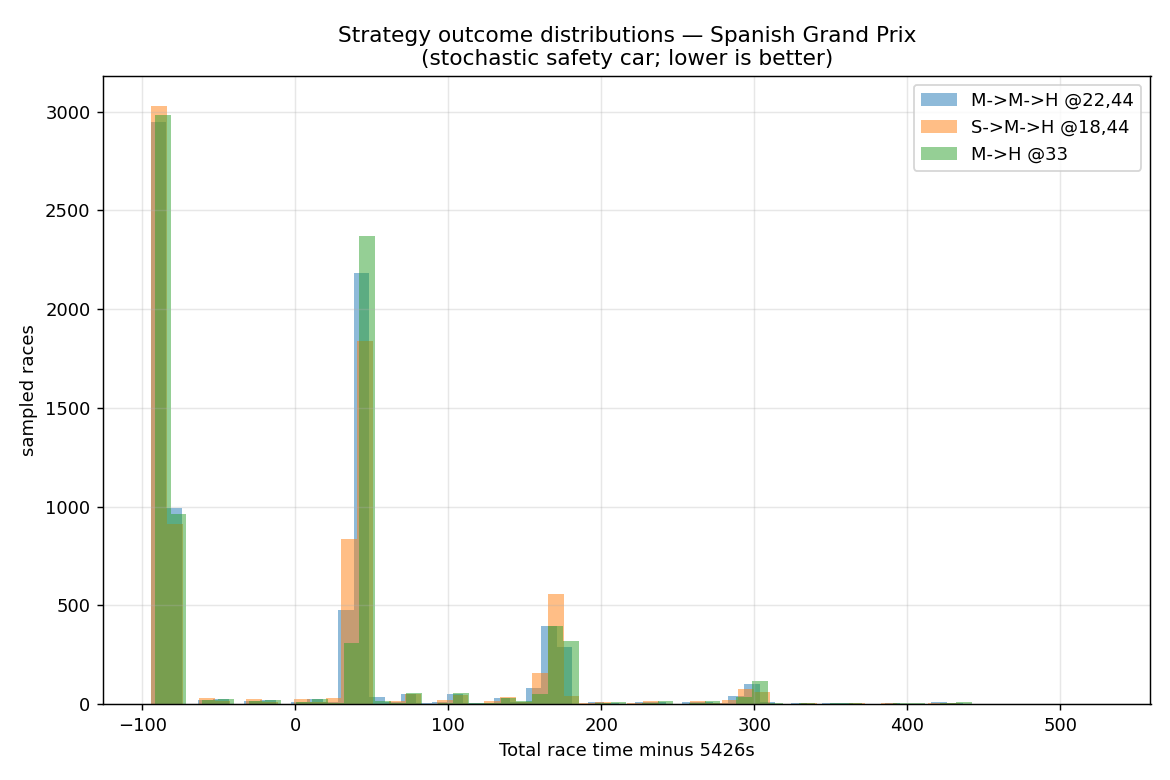
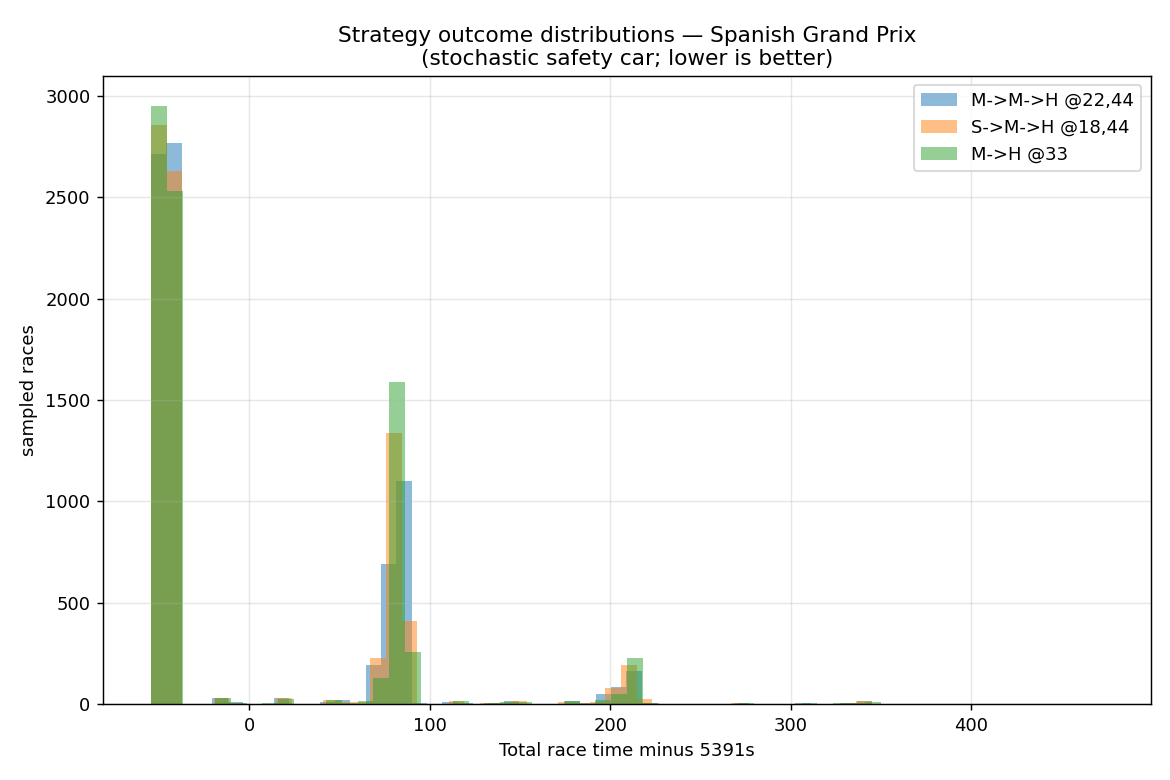
Phase 3/4 (fidelity): per-track pit loss + wire calibrated SC/pit into demos
(1) Wire per-track calibrated safety car into the Phase 3/4 demos via
    safety_car.track_sc_model (per-track shrunk model, global fallback). Spain's
    realistic P(>=1 SC) drops 0.57 -> 0.31; its outcome distribution is now far
    less SC-skewed (p90 ~5471 vs ~5594) and the recommendation is stable.

(3) Track-specific pit loss, estimated from data:
    - data/ingest.build_race_laps_dataset: laps-only pull of lap times + pit
      flags + status for every race.
    - eda.estimate_pit_loss: per-circuit median of (in-lap + out-lap) minus
      neighbouring green laps, excluding SC stops.
    Real-data result matches reality: global ~22.9s, Spa 19.0s (short pit lane),
    Singapore 29.4s / Imola 28.5s (long), Spain 23.4s. Wired into both demos
    (pit_loss_s, with SC stops ~half cost).

7 new tests (SC lap detection already covered; pit-loss estimate, SC exclusion,
per-track medians); 63 total, all passing.

diff --git a/src/f1se/data/ingest.py b/src/f1se/data/ingest.py
@@ -138,11 +138,69 @@ def build_track_status_dataset(
     return full
 
 
+BY_RACE_PITLAPS = PROCESSED / "by_race_pitlaps"
+
+
+def build_race_laps_dataset(
+    years: list[int],
+    *,
+    session: str = "R",
+    out_name: str = "race_laps.parquet",
+) -> pd.DataFrame:
+    """Pull per-lap times + pit flags + status for every race (for pit-loss calib).
+
+    Laps-only load (fast). Keeps the columns needed to estimate per-track pit
+    loss from in/out-lap times relative to neighbouring green laps. Resumable.
+    """
+    BY_RACE_PITLAPS.mkdir(parents=True, exist_ok=True)
+    enable_cache()
+    import fastf1
+
+    frames: list[pd.DataFrame] = []
+    for year in years:
+        try:
+            rounds = season_rounds(year)
+        except Exception as e:  # pragma: no cover - network
+            print(f"! schedule {year} failed: {e}", flush=True)
+            continue
+        for rnd in rounds:
+            fp = BY_RACE_PITLAPS / f"{year}_{rnd:02d}.parquet"
+            if fp.exists():
+                frames.append(pd.read_parquet(fp))
+                continue
+            try:
+                ses = fastf1.get_session(year, rnd, session)
+                ses.load(laps=True, telemetry=False, weather=False, messages=False)
+                laps = ses.laps
+                df = pd.DataFrame({
+                    "year": int(year),
+                    "round": int(ses.event["RoundNumber"]),
+                    "event_name": str(ses.event["EventName"]),
+                    "driver": laps["Driver"].astype("string"),
+                    "lap_number": laps["LapNumber"].astype("int64"),
+                    "lap_time_s": laps["LapTime"].dt.total_seconds(),
+                    "is_pit_in_lap": laps["PitInTime"].notna(),
+                    "is_pit_out_lap": laps["PitOutTime"].notna(),
+                    "track_status": laps["TrackStatus"].astype("string"),
+                })
+                df.to_parquet(fp)
+                frames.append(df)
+                print(f"  laps {year} r{rnd:02d}: {df['event_name'].iloc[0]}", flush=True)
+            except Exception as e:  # pragma: no cover - network
+                print(f"  ! {year} r{rnd:02d} laps FAILED: {e}", flush=True)
+
+    full = pd.concat(frames, ignore_index=True)
+    full.to_parquet(PROCESSED / out_name)
+    print(f"\nDONE: race laps for {len(frames)} races -> {PROCESSED / out_name}", flush=True)
+    return full
+
+
 if __name__ == "__main__":
     args = sys.argv[1:]
-    if args and args[0] == "status":
-        yrs = [int(a) for a in args[1:]] or [2023, 2024]
-        build_track_status_dataset(yrs)
+    cmd = args[0] if args else ""
+    if cmd == "status":
+        build_track_status_dataset([int(a) for a in args[1:]] or [2023, 2024])
+    elif cmd == "racelaps":
+        build_race_laps_dataset([int(a) for a in args[1:]] or [2023, 2024])
     else:
-        yrs = [int(a) for a in args] or [2023, 2024]
-        build_dry_dataset(yrs)
+        build_dry_dataset([int(a) for a in args] or [2023, 2024])

diff --git a/tests/test_pit_loss.py b/tests/test_pit_loss.py
@@ -1,0 +1,49 @@
+"""No-network test for the per-track pit-loss estimator."""
+
+from __future__ import annotations
+
+import numpy as np
+import pandas as pd
+
+from f1se.eda import estimate_pit_loss
+
+
+def _race_laps(event, pit_lap, in_extra, out_extra, *, rnd=1, n_laps=30, green=90.0, status_in="1"):
+    """One driver's race: green laps at `green`s, a pit at `pit_lap` adding
+    `in_extra` to the in-lap and `out_extra` to the out-lap."""
+    rows = []
+    for lap in range(1, n_laps + 1):
+        is_in = lap == pit_lap
+        is_out = lap == pit_lap + 1
+        t = green + (in_extra if is_in else out_extra if is_out else 0.0)
+        rows.append({
+            "year": 2023, "round": rnd, "event_name": event, "driver": "VER",
+            "lap_number": lap, "lap_time_s": t,
+            "is_pit_in_lap": is_in, "is_pit_out_lap": is_out,
+            "track_status": status_in if is_in else "1",
+        })
+    return pd.DataFrame(rows)
+
+
+def test_estimates_pit_loss_from_neighbours():
+    # in-lap +12s, out-lap +9s vs green neighbours -> pit loss ~21s.
+    df = _race_laps("Test GP", pit_lap=10, in_extra=12.0, out_extra=9.0)
+    est = estimate_pit_loss(df)
+    assert np.isclose(est["Test GP"], 21.0, atol=1e-6)
+    assert np.isclose(est["_global"], 21.0, atol=1e-6)
+
+
+def test_safety_car_stops_are_excluded():
+    # The only stop is under SC (in-lap status contains '4') -> no estimate.
+    df = _race_laps("SC GP", pit_lap=10, in_extra=12.0, out_extra=9.0, status_in="4")
+    est = estimate_pit_loss(df)
+    assert "SC GP" not in est
+
+
+def test_per_track_medians_differ():
+    a = _race_laps("Short Pitlane", pit_lap=10, in_extra=8.0, out_extra=6.0, rnd=1)
+    b = _race_laps("Long Pitlane", pit_lap=10, in_extra=15.0, out_extra=12.0, rnd=2)
+    est = estimate_pit_loss(pd.concat([a, b], ignore_index=True))
+    assert est["Short Pitlane"] < est["Long Pitlane"]
+    assert np.isclose(est["Short Pitlane"], 14.0, atol=1e-6)
+    assert np.isclose(est["Long Pitlane"], 27.0, atol=1e-6)

diff --git a/src/f1se/eda.py b/src/f1se/eda.py
@@ -33,6 +33,8 @@ from f1se.data.clean import FuelModel, clean_laps
 from f1se.data.loader import load_session_laps
 
 STINT_KEYS = ("year", "round", "driver", "stint")
+GREEN_FLAG = "1"   # FastF1 track-status code for a fully green lap
+SC_CODE = "4"      # ... and for a full safety car
 
 
 @dataclass(frozen=True)
@@ -75,6 +77,52 @@ def load_clean_races(
     if not frames:
         raise RuntimeError("no races loaded")
     return pd.concat(frames, ignore_index=True)
+
+
+def estimate_pit_loss(
+    race_laps: pd.DataFrame, *, min_loss: float = 5.0, max_loss: float = 60.0
+) -> dict[str, float]:
+    """Estimate per-circuit green-flag pit loss (s) from in/out-lap times.
+
+    For each green-flag pit stop, the time lost is approximated as how much
+    slower the in-lap and out-lap are than their immediate green neighbours::
+
+        pit_loss = (in_lap - lap_before) + (out_lap - lap_after)
+
+    Stops under safety car are excluded (they're cheaper and unrepresentative).
+    Returns the median per ``event_name`` plus a ``"_global"`` median fallback.
+    ``race_laps`` needs columns: year, round, event_name, driver, lap_number,
+    lap_time_s, is_pit_in_lap, is_pit_out_lap, track_status.
+    """
+    def _green(row) -> bool:
+        return (str(row["track_status"]) == GREEN_FLAG and not bool(row["is_pit_in_lap"])
+                and not bool(row["is_pit_out_lap"]) and pd.notna(row["lap_time_s"]))
+
+    losses: dict[str, list[float]] = {}
+    for (_, _, _), g in race_laps.groupby(["year", "round", "driver"], observed=True):
+        g = g.set_index("lap_number").sort_index()
+        event = str(g["event_name"].iloc[0])
+        for lap in g.index[g["is_pit_in_lap"].fillna(False)]:
+            need = [lap - 1, lap, lap + 1, lap + 2]
+            if any(n not in g.index for n in need):
+                continue
+            before, in_, out_, after = (g.loc[n] for n in need)
+            if not bool(out_["is_pit_out_lap"]) or not _green(before) or not _green(after):
+                continue
+            # Skip safety-car stops (in/out lap touched by SC).
+            if SC_CODE in str(in_["track_status"]) or SC_CODE in str(out_["track_status"]):
+                continue
+            if any(pd.isna(x["lap_time_s"]) for x in (in_, out_)):
+                continue
+            loss = (in_["lap_time_s"] - before["lap_time_s"]) + (out_["lap_time_s"] - after["lap_time_s"])
+            if min_loss < loss < max_loss:
+                losses.setdefault(event, []).append(float(loss))
+
+    out = {ev: float(np.median(v)) for ev, v in losses.items() if v}
+    allv = [x for v in losses.values() for x in v]
+    if allv:
+        out["_global"] = float(np.median(allv))
+    return out
 
 
 def compound_stint_limits(clean: pd.DataFrame, *, quantile: float = 0.9) -> dict[str, int]:

diff --git a/notebooks/phase4_optimize.py b/notebooks/phase4_optimize.py
@@ -17,11 +17,11 @@ import numpy as np
 import pandas as pd
 
 from f1se.config import PROJECT_ROOT
-from f1se.eda import compound_stint_limits
+from f1se.eda import compound_stint_limits, estimate_pit_loss
 from f1se.models.cliff import CliffPrior
 from f1se.models.degradation import fit_linear_baseline
 from f1se.sim.optimize import recommend_strategy
-from f1se.sim.safety_car import SafetyCarModel
+from f1se.sim.safety_car import SafetyCarModel, track_sc_model
 from f1se.sim.simulate import Strategy, pace_fn_from_model
 
 DATA = PROJECT_ROOT / "data" / "processed" / "dry_laps.parquet"
@@ -49,13 +49,25 @@ def main() -> None:
 
     ev = laps[laps["event_name"] == TRACK]
     total_laps = int(ev["lap_number"].max())
-    sc_model = SafetyCarModel.from_rate(0.7, total_laps)
+    proc = PROJECT_ROOT / "data" / "processed"
+    status_path, racelaps_path = proc / "track_status.parquet", proc / "race_laps.parquet"
+    if status_path.exists():
+        sc_model = track_sc_model(pd.read_parquet(status_path), TRACK)
+    else:
+        sc_model = SafetyCarModel.from_rate(0.7, total_laps)
+
+    # Track-specific pit loss, estimated from in/out-lap times (fallback 21s).
+    pit_loss = 21.0
+    if racelaps_path.exists():
+        est = estimate_pit_loss(pd.read_parquet(racelaps_path))
+        pit_loss = est.get(TRACK, est.get("_global", 21.0))
 
     # Cap each compound's stint at its observed range so the optimiser doesn't
     # extrapolate the linear degradation model into the (censored) cliff region.
     limits = compound_stint_limits(laps, quantile=0.9)
     common = dict(sc_model=sc_model, n_runs=4000, pit_grid_step=3, min_stint=9,
-                  seed=42, max_stint=limits, objective="mean")
+                  seed=42, max_stint=limits, objective="mean",
+                  pit_loss_s=pit_loss, pit_loss_sc_s=round(pit_loss * 0.5, 1))
 
     # Pure data model vs data model + domain cliff prior.
     cliff = CliffPrior()  # SOFT cliffs at age 18, MEDIUM 28, HARD 38 (assumption)
@@ -68,6 +80,7 @@ def main() -> None:
                    for k, c in enumerate(strat.compounds) if c == "SOFT")
 
     print(f"{TRACK}: {total_laps} laps")
+    print(f"Calibrated: SC prob/lap={sc_model.prob_per_lap:.4f}, pit loss={pit_loss:.1f}s")
     print(f"Stint limits (p90 observed): {limits}")
     print(f"Cliff prior (DOMAIN ASSUMPTION): onset {cliff.cliff_age}, rate {cliff.rate}\n")
 

diff --git a/notebooks/phase3_simulate.py b/notebooks/phase3_simulate.py
@@ -18,11 +18,14 @@ import numpy as np
 import pandas as pd
 
 from f1se.config import PROJECT_ROOT
+from f1se.eda import estimate_pit_loss
 from f1se.models.degradation import fit_linear_baseline
-from f1se.sim.safety_car import SafetyCarModel
+from f1se.sim.safety_car import SafetyCarModel, track_sc_model
 from f1se.sim.simulate import Strategy, pace_fn_from_model, simulate_race
 
 DATA = PROJECT_ROOT / "data" / "processed" / "dry_laps.parquet"
+STATUS = PROJECT_ROOT / "data" / "processed" / "track_status.parquet"
+RACELAPS = PROJECT_ROOT / "data" / "processed" / "race_laps.parquet"
 FIG_DIR = Path(__file__).parent / "figures"
 TRACK = "Spanish Grand Prix"
 
@@ -38,7 +41,17 @@ def main() -> None:
     print(f"{TRACK}: {total_laps} laps. Simulating strategies...\n")
 
     pace_fn = pace_fn_from_model(model, TRACK, total_laps)
-    sc_model = SafetyCarModel.from_rate(sc_periods_per_race=0.7, total_laps=total_laps)
+    # Per-track calibrated safety-car risk (Spain is a low-SC circuit).
+    if STATUS.exists():
+        sc_model = track_sc_model(pd.read_parquet(STATUS), TRACK)
+    else:
+        sc_model = SafetyCarModel.from_rate(sc_periods_per_race=0.7, total_laps=total_laps)
+    pit_loss = 21.0
+    if RACELAPS.exists():
+        est = estimate_pit_loss(pd.read_parquet(RACELAPS))
+        pit_loss = est.get(TRACK, est.get("_global", 21.0))
+    print(f"SC model: prob_per_lap={sc_model.prob_per_lap:.4f}, dur={sc_model.mean_duration}; "
+          f"pit loss={pit_loss:.1f}s\n")
 
     h = total_laps // 2
     t = total_laps // 3
@@ -51,7 +64,8 @@ def main() -> None:
     ]
 
     results = [
-        simulate_race(s, total_laps, pace_fn, sc_model=sc_model, n_runs=8000, seed=42)
+        simulate_race(s, total_laps, pace_fn, sc_model=sc_model, n_runs=8000, seed=42,
+                      pit_loss_s=pit_loss, pit_loss_sc_s=round(pit_loss * 0.5, 1))
         for s in candidates
     ]
     results.sort(key=lambda r: r.mean)

diff --git a/src/f1se/sim/safety_car.py b/src/f1se/sim/safety_car.py
@@ -96,6 +96,16 @@ def calibrate_per_track(
     return out
 
 
+def track_sc_model(status: pd.DataFrame, event_name: str) -> SafetyCarModel:
+    """Calibrated SC model for one circuit, falling back to the global rate.
+
+    Convenience for the simulator/optimiser: returns the (shrunk) per-track model
+    if the circuit is present in ``status``, else the global calibration.
+    """
+    per_track = calibrate_per_track(status)
+    return per_track.get(event_name) or SafetyCarModel.from_track_status(status)
+
+
 def sc_laps_in_race(race_status: pd.DataFrame) -> list[int]:
     """Race laps run under safety car: those where most cars show the SC code."""
     by_lap = race_status.groupby("lap_number")["track_status"].apply(